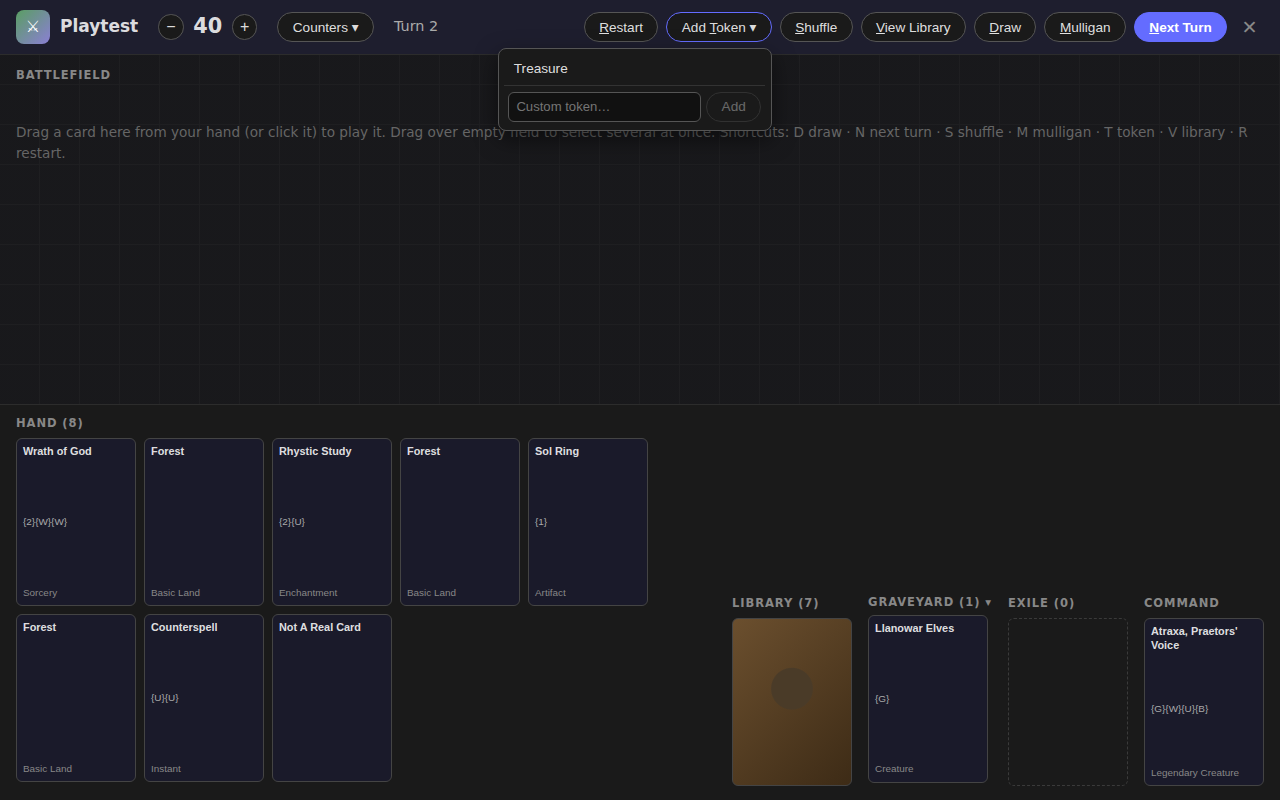
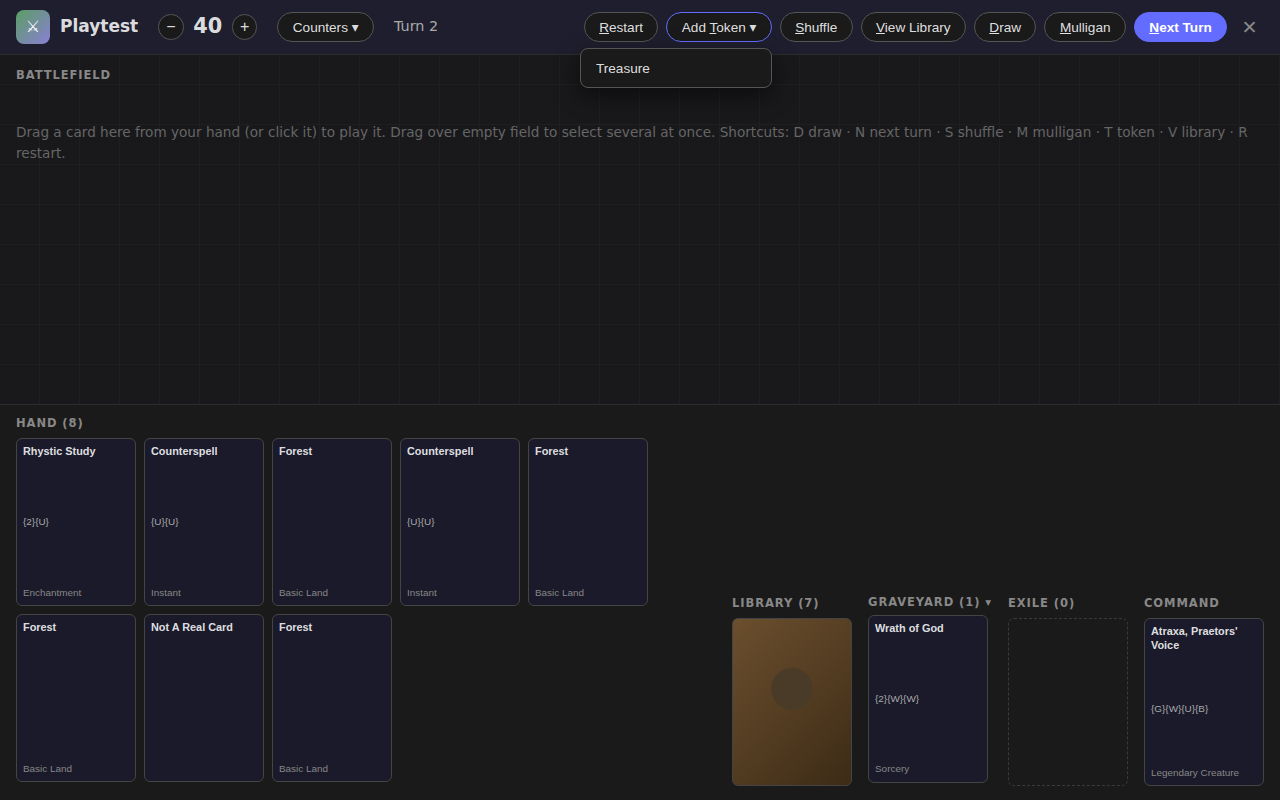
Playtest: remove the custom token input from the Add Token menu
The menu now lists only the tokens the deck can make (or the presets when
none are detected); the free-text custom-token form is gone. Repoints the
shortcut-while-typing test to the library filter input.

Claude-Session: https://claude.ai/code/session_017gkumSiN3a7D1hGypfP7Wm

diff --git a/src/Playtest.jsx b/src/Playtest.jsx
@@ -258,7 +258,6 @@ function Playtest({
   const [countersOpen, setCountersOpen] = useState(false);
   const [libraryOpen, setLibraryOpen] = useState(false);
   const [graveyardOpen, setGraveyardOpen] = useState(false);
-  const [customToken, setCustomToken] = useState("");
   const [preview, setPreview] = useState(null); // instance id under the cursor
   const [confirmClose, setConfirmClose] = useState(false);
   const [selected, setSelected] = useState(() => new Set()); // battlefield multi-select
@@ -536,7 +535,6 @@ function Playtest({
     act((g) => addToken(g, trimmed, card));
     // Leave the menu open so several tokens can be added in a row; it closes on
     // the Add Token toggle, Escape, or opening another menu.
-    setCustomToken("");
   }
 
   const activeCounters = PLAYER_COUNTERS.filter((k) => playerCounters[k] > 0);
@@ -665,24 +663,6 @@ function Playtest({
                         {name}
                       </button>
                     ))}
-                <form
-                  className="pt-token-custom"
-                  onSubmit={(e) => {
-                    e.preventDefault();
-                    makeToken(customToken);
-                  }}
-                >
-                  <input
-                    type="text"
-                    placeholder="Custom token…"
-                    aria-label="Custom token name"
-                    value={customToken}
-                    onChange={(e) => setCustomToken(e.target.value)}
-                  />
-                  <button type="submit" className="pt-btn" disabled={!customToken.trim()}>
-                    Add
-                  </button>
-                </form>
               </div>
             )}
           </div>

diff --git a/src/App.css b/src/App.css
@@ -2656,25 +2656,6 @@ h3 {
   flex-shrink: 0;
 }
 
-.pt-token-custom {
-  display: flex;
-  gap: 0.35rem;
-  padding: 0.35rem 0.25rem 0.15rem;
-  border-top: 1px solid #333;
-  margin-top: 0.25rem;
-}
-
-.pt-token-custom input {
-  flex: 1;
-  min-width: 0;
-  padding: 0.3rem 0.45rem;
-  border-radius: 6px;
-  border: 1px solid #555;
-  background: #111;
-  color: inherit;
-  font-size: 0.82rem;
-}
-
 .pt-counter-row {
   display: flex;
   align-items: center;

diff --git a/src/Playtest.test.jsx b/src/Playtest.test.jsx
@@ -140,8 +140,8 @@ describe("Playtest", () => {
 
   it("shortcuts are ignored while typing in a field", () => {
     renderPlaytest();
-    fireEvent.click(screen.getByRole("button", { name: /Add Token/ }));
-    const input = screen.getByLabelText("Custom token name");
+    fireEvent.click(screen.getByRole("button", { name: /View Library/ }));
+    const input = screen.getByLabelText("Filter library");
     fireEvent.keyDown(input, { key: "d" });
     fireEvent.keyDown(input, { key: "r" });
     expect(screen.getByText("Hand (7)")).toBeInTheDocument(); // no draw, no restart
@@ -167,16 +167,6 @@ describe("Playtest", () => {
     fireEvent.click(screen.getByRole("button", { name: "Treasure" }));
     // Still open, so several tokens can be added in a row.
     expect(screen.getByRole("dialog", { name: "Add token" })).toBeInTheDocument();
-  });
-
-  it("adds a custom token from the input", () => {
-    renderPlaytest();
-    fireEvent.click(screen.getByRole("button", { name: /Add Token/ }));
-    fireEvent.change(screen.getByLabelText("Custom token name"), {
-      target: { value: "4/4 Angel" },
-    });
-    fireEvent.click(screen.getByRole("button", { name: "Add" }));
-    expect(screen.getByRole("button", { name: "4/4 Angel" })).toBeInTheDocument();
   });
 
   it("restricts the token menu to the deck's tokens, shown as name + stats", () => {